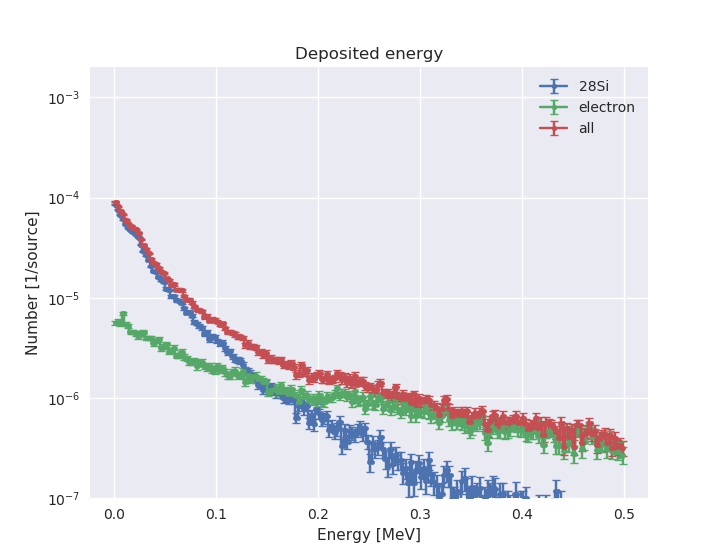
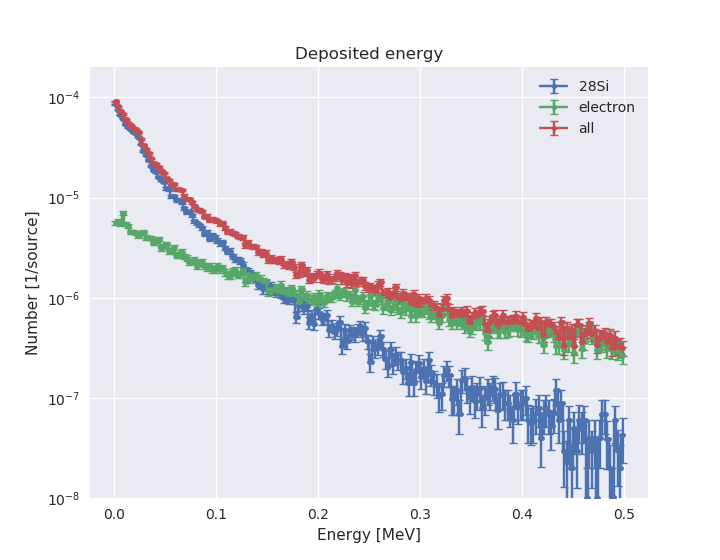
cambio limites

Changed region(s): [[0.1528, 0.1821, 0.8861, 0.9107]]

diff --git a/exp_skccd_UnThinned/phits/grafica_depo.py b/exp_skccd_UnThinned/phits/grafica_depo.py
@@ -43,7 +43,7 @@ if __name__ == '__main__':
             ax.set_xlabel('Energy [MeV]')
             ax.set_ylabel('Number [1/source]')
             ax.legend()
-            ax.set_ylim(1e-7, 2e-3)
+            ax.set_ylim(1e-8, 2e-4)
         fig.gca().set_title('Deposited energy')
 
     fig.savefig('deposited_Si.png')
